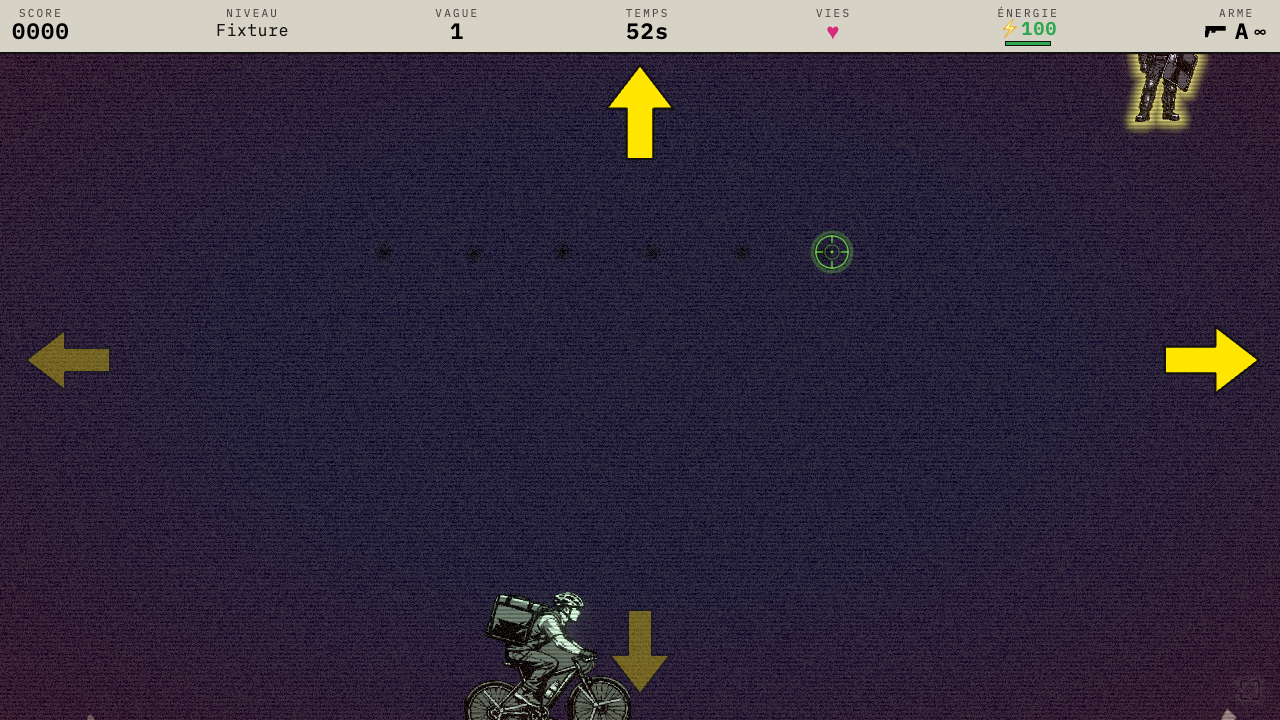
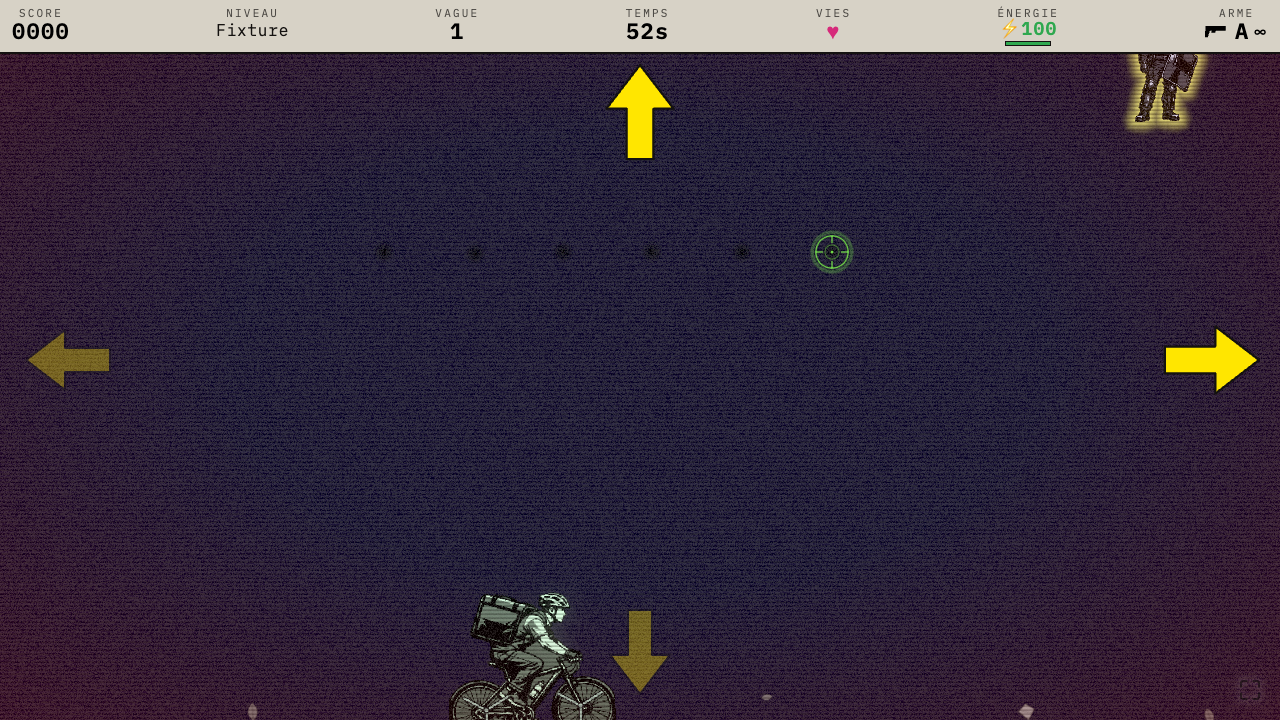
fix(game): résout roster et handlePlay via ALL_LEVELS + durcit le validateur (panel run 2)
Clôt les 3 MAJEUR + 2 MINEUR du run 2 du panel (PR #149) :
- GameScene résolvait le roster via LEVELS : un level généré jouait donc
  sur le pool PAR DÉFAUT — le seam d'activation d'ADR-0073 n'était jamais
  exercé par le runtime. GameScene et handlePlay passent par ALL_LEVELS
  (résolution identique pour les ids shippés, en tête de liste). La
  preuve §8 est re-déroulée sur ce câblage et la revendication du shard
  corrigée — le premier run jouait le pool par défaut, pas le vigile.
- validateLevelPlan applique le plafond de design « 1 archétype inédit
  max par level » (décision Bertrand, spec §2.1), rejette variants < 1
  et hp < 1 (le runtime divise et boucle dessus), vérifie la finitude de
  x, et calcule la parité du halving mobile sur la liste FILTRÉE que le
  renderer indexe réellement.
- l'invariant de forme du manifeste couvre les levels générés :
  « fixture » ajouté aux LEVEL_IDS et le motif élargi à
  nearfg:<levelId>:<name>.

Changed region(s): [[0.0, 0.0611, 1.0, 1.0]]

diff --git a/src/game/levels/levelPlan.ts b/src/game/levels/levelPlan.ts
@@ -75,6 +75,14 @@ export function validateLevelPlan(plan: LevelPlan): string[] {
   const ns = `${plan.id}:`;
   const declared = new Set<string>(plan.archetypes.map((a) => a.kind));
 
+  // Bertrand's framing decision (spec §2.1): at most ONE novel archetype per
+  // level — the design-gated cap on a generated level's mechanical surface.
+  if (plan.archetypes.length > 1) {
+    errors.push(
+      `archetypes: ${String(plan.archetypes.length)} declared, the design cap is 1 per level (spec §2.1)`,
+    );
+  }
+
   for (const a of plan.archetypes) {
     // weight 0 is the activation law (§4.2): a level-authored kind never enters
     // a default pool, it is opted in by its own roster.windowWeights.
@@ -84,11 +92,23 @@ export function validateLevelPlan(plan: LevelPlan): string[] {
     if (!a.kind.startsWith(ns)) {
       errors.push(`archetype ${a.kind}: expected namespace "${ns}"`);
     }
+    // Runtime divides by `variants` (EnemySprite keys the flipbook off
+    // slotIndex % variants) and loops preload paths 1..variants: 0 or a
+    // non-integer means NaN sprite keys and an EMPTY preload manifest.
+    if (!Number.isInteger(a.variants) || a.variants < 1) {
+      errors.push(`archetype ${a.kind}: variants must be an integer >= 1`);
+    }
+    if (!Number.isInteger(a.hp) || a.hp < 1) {
+      errors.push(`archetype ${a.kind}: hp must be an integer >= 1`);
+    }
   }
 
   for (const p of plan.props) {
     if (!p.kind.startsWith(ns)) errors.push(`prop ${p.kind}: expected namespace "${ns}"`);
-    for (const field of ["aspect", "heightFrac", "footPadFrac"] as const) {
+    // `x` included: getNearForeground silently DROPS a non-finite-x object at
+    // runtime, which would desynchronize the mobile-halving parity this
+    // validator certifies below from the list the renderer actually indexes.
+    for (const field of ["aspect", "heightFrac", "footPadFrac", "x"] as const) {
       if (!Number.isFinite(p[field])) errors.push(`prop ${p.kind}: ${field} missing or non-finite`);
     }
   }
@@ -109,9 +129,13 @@ export function validateLevelPlan(plan: LevelPlan): string[] {
 
   // Mobile halves each kerb row by list parity: a row whose props all land on an
   // odd index of its own order is drawn EMPTY on mobile (see mobileVisibleProps).
+  // Parity is computed on the SAME list the renderer indexes — the one
+  // getNearForeground survives (finite x) — not the raw authored array, so a
+  // dropped object can never desynchronize the certified parity from the drawn one.
+  const drawable = plan.props.filter((p) => Number.isFinite(p.x));
   for (const row of ["near", "far"] as const) {
-    const inRow = plan.props.filter((p) => (p.row ?? "near") === row);
-    if (inRow.length > 0 && mobileVisibleProps(plan.props, row).length === 0) {
+    const inRow = drawable.filter((p) => (p.row ?? "near") === row);
+    if (inRow.length > 0 && mobileVisibleProps(drawable, row).length === 0) {
       errors.push(`row ${row}: every prop is dropped by the mobile halving`);
     }
   }

diff --git a/src/render/scene/GameScene.tsx b/src/render/scene/GameScene.tsx
@@ -20,7 +20,7 @@ import type { HudData, HudDelivery, HudHostageQte, HudBossQte } from "@render/ui
 import type { LevelParams } from "@game/systems/stateMachine";
 import { isQteActive } from "@game/systems/qteSystem";
 import { isBossQteActive } from "@game/systems/bossQteSystem";
-import { LEVELS } from "@game/levels/levels";
+import { ALL_LEVELS } from "@game/levels/levels";
 import { LevelBackdrop } from "./LevelBackdrop";
 import { ForegroundFrames } from "./ForegroundFrames";
 import { WindowGrilles } from "./WindowGrilles";
@@ -295,8 +295,12 @@ export function GameScene({
   );
 
   // Per-level roster gate (ADR-0004): drives the window pool + street spawns.
-  // Absent ⇒ legacy behaviour (stalingrad / vitry carry no roster).
-  const roster = useMemo(() => LEVELS.find((l) => l.id === levelId)?.roster, [levelId]);
+  // Absent ⇒ legacy behaviour (stalingrad / vitry carry no roster). Resolved off
+  // ALL_LEVELS (shipped first, so shipped ids resolve identically) because a
+  // generated level's roster is the ONE thing that activates its level-authored
+  // archetypes (ADR-0073 §3) — reading LEVELS here silently played a generated
+  // level on the default pool (panel run-2 MAJEUR on PR #149).
+  const roster = useMemo(() => ALL_LEVELS.find((l) => l.id === levelId)?.roster, [levelId]);
 
   const feedbackRef = useRef<Floater[]>([]);
   const impactChannelRef = useRef<ImpactChannel>({ queue: [], resetNonce: 0 });

diff --git a/src/render/scene/App.tsx b/src/render/scene/App.tsx
@@ -32,7 +32,7 @@ import { detectMobile } from "@utils/platform";
 import { loadPrefs, savePrefs } from "@game/systems/prefsSystem";
 import type { Prefs } from "@game/systems/prefsSystem";
 import { loadUnlockedLevels, unlockLevel } from "@game/systems/progressSystem";
-import { LEVELS, FIRST_PLAYABLE_LEVEL } from "@game/levels/levels";
+import { LEVELS, ALL_LEVELS, FIRST_PLAYABLE_LEVEL } from "@game/levels/levels";
 import type { LevelConfig } from "@game/levels/levels";
 import {
   saveScore,
@@ -381,7 +381,11 @@ export function App(): JSX.Element {
   }, [appPhase]);
 
   function handlePlay(levelId: string): void {
-    const level = LEVELS.find((l) => l.id === levelId) ?? FIRST_PLAYABLE_LEVEL;
+    // ALL_LEVELS, not LEVELS: the menu only ever passes shipped ids (identical
+    // resolution — shipped levels are the list's head), but a generated id
+    // invoked directly must resolve to ITS level, not silently substitute
+    // belliard (panel run-2 MAJEUR on PR #149).
+    const level = ALL_LEVELS.find((l) => l.id === levelId) ?? FIRST_PLAYABLE_LEVEL;
     // Scripted onboarding stage (ADR-0012, D3): no game state, no `setSelectedLevel`
     // (keeps `selectedLevel` playable so the audio-tension divisor never sees a
     // `timeSeconds: 0` and pushes NaN into tension). Finish or skip → MENU.

diff --git a/src/game/levels/__tests__/levelPlan.test.ts b/src/game/levels/__tests__/levelPlan.test.ts
@@ -223,3 +223,36 @@ describe("planToLevelArt", () => {
     ]);
   });
 });
+
+describe("validateLevelPlan — panel run-2 hardenings", () => {
+  it("caps level-authored archetypes at ONE (spec §2.1 design decision)", () => {
+    const two = {
+      ...base,
+      archetypes: [
+        { ...vigile, kind: "fixture:a" },
+        { ...vigile, kind: "fixture:b" },
+      ],
+    } as LevelPlan;
+    expect(validateLevelPlan(two)).toContainEqual(expect.stringContaining("cap is 1"));
+  });
+
+  it("rejects variants < 1 and non-integer hp — runtime divides and loops on them", () => {
+    const bad = {
+      ...base,
+      archetypes: [{ ...vigile, variants: 0, hp: 0 }],
+    } as LevelPlan;
+    const errors = validateLevelPlan(bad);
+    expect(errors).toContainEqual(expect.stringContaining("variants"));
+    expect(errors).toContainEqual(expect.stringContaining("hp"));
+  });
+
+  it("rejects a non-finite prop x — getNearForeground would silently drop it", () => {
+    const bad = {
+      ...base,
+      props: [{ ...prop("fixture:kiosque"), x: Number.NaN }],
+    } as LevelPlan;
+    expect(validateLevelPlan(bad)).toContainEqual(
+      expect.stringContaining("x missing or non-finite"),
+    );
+  });
+});

diff --git a/src/game/systems/__tests__/assetManifest.test.ts b/src/game/systems/__tests__/assetManifest.test.ts
@@ -30,10 +30,15 @@ import { CORE_ARCHETYPES } from "@game/types/enemyTypes";
 
 // Real file assets, plus the synthetic `nearfg:<kind>` scheme for the code-drawn
 // near-foreground props (ADR-0047) — no PNG on disk, warmed by building a texture.
-const ASSET_RE = /^(assets\/.+\.(png|jpg|webp|mp3|wav|glb)|nearfg:[a-zA-Z]+)$/;
+// `nearfg:<kind>` for the 8 pool kinds, `nearfg:<levelId>:<name>` for a generated
+// level's own prop (spec-level-harness-sp1 §4.5) — the shape invariant must cover
+// the namespaced case too, or generated manifests silently escape it.
+const ASSET_RE = /^(assets\/.+\.(png|jpg|webp|mp3|wav|glb)|nearfg:[a-zA-Z]+(:[a-zA-Z]+)?)$/;
 
 // Every level id we build a full manifest for, plus the three non-level targets.
-const LEVEL_IDS = ["belliard", "stalingrad", "vitry"] as const;
+// "fixture" (generated, asset-less by design) keeps the generic shape invariant
+// honest over generated-level manifests, not just shipped ones.
+const LEVEL_IDS = ["belliard", "stalingrad", "vitry", "fixture"] as const;
 const NON_LEVEL_TARGETS = ["menu", "tutorial-desktop", "tutorial-mobile"] as const;
 const ALL_TARGETS = [...NON_LEVEL_TARGETS, ...LEVEL_IDS, "does-not-exist"] as const;
 

diff --git a/docs/handoffs/story-level-harness-sp1.md b/docs/handoffs/story-level-harness-sp1.md
@@ -52,11 +52,16 @@ absolument tout »_ (2026-07-27).
 ## Suivi
 
 - [ ] Panel re-run after remediation push → zero unaddressed CONFIRMED bloquant/majeur
-- [x] `verify` §8 acceptance evidence — DONE 2026-07-29: `?preview=level&level=fixture`
-      seam (generatedHarness.ts, boss-seam reachability discipline — generated-only,
-      never shipped), headless Playwright run: zero pageerror, HUD `NIVEAU Fixture`,
-      timer 60→47 ticking, flat-colour backdrop fallback, pool + `fixture:vigile`
-      enemies popping on fallback sprites AND dealing damage (1.5 hearts lost).
-      Evidence: `docs/qa/evidence/story-level-harness-sp1/` (3 PNG + report.json)
+- [x] `verify` §8 acceptance evidence — DONE 2026-07-29 (re-run after the run-2
+      roster fix): `?preview=level&level=fixture` seam (generatedHarness.ts, boss-seam
+      reachability discipline — generated-only, never shipped), headless Playwright:
+      zero pageerror, HUD `NIVEAU Fixture`, timer 60→47 ticking, flat-colour backdrop
+      fallback, enemies firing and dealing damage. CORRECTION of the first run's claim:
+      that run resolved the roster off `LEVELS` (run-2 MAJEUR) so it played the DEFAULT
+      pool — `fixture:vigile` was not in it. Now `GameScene`/`handlePlay` resolve via
+      `ALL_LEVELS`, and the vigile's activation is pinned by the pool-composition unit
+      test (`generatedLevels.test.ts`); on screen it is indistinguishable anyway (it
+      renders on the same fallback sprite). Evidence:
+      `docs/qa/evidence/story-level-harness-sp1/` (3 PNG + report.json)
 - [ ] `pm` acceptance vs this shard + PROJECT_GUIDELINES
 - [ ] SP2 opens only after this merges
